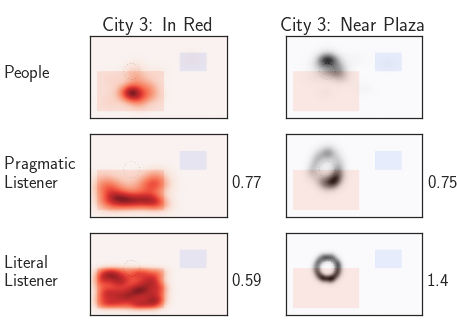
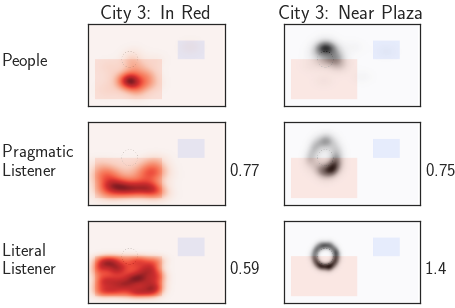
tweaks

diff --git a/spatialImplicature.tex b/spatialImplicature.tex
@@ -37,7 +37,7 @@
 \newcommand{\ndg}[1]{\textcolor{Green}{[ndg: #1]}}
 \newcommand{\tdu}[1]{\textcolor{Red}{[tdu: #1]}}
 
-\title{[Cute title]: The Pragmatics of Spatial Language}
+\title{The Pragmatics of Spatial Language}
  
 %\author{{\large \bf Morton Ann Gernsbacher (MAG@Macc.Wisc.Edu)} \\
 %  Department of Psychology, 1202 W. Johnson Street \\
@@ -61,7 +61,7 @@
 \begin{abstract}
 
 How do people understand the pragmatics of spatial language? 
-We propose a rational-speech act model for spatial reasoning, and apply it to the terms `in' and `near'. We examine people's fine-grain spatial reasoning in this domain by having them locate where an event occurred. Our pragmatic listener model provides a quantitative and qualitative fit to people's inferneces. \textbf{Keywords:}
+We propose a rational-speech act model for spatial reasoning, and apply it to the terms `in' and `near'. We examine people's fine-grain spatial reasoning in this domain by having them locate where an event occurred, given an utterance. Our pragmatic listener model provides a quantitative and qualitative fit to people's inferneces. \textbf{Keywords:}
 Pragmatics, Implicature, Spatial Language
 
 \end{abstract}
@@ -197,14 +197,14 @@ We implement this model in the probabilistic programming language Church \cite{g
 
 \begin{figure*}[!t]
 \center
-\includegraphics[width=.79\textwidth]{figures/In.pdf}
+\includegraphics[width=.7\textwidth]{figures/In.pdf}
 \caption{Experiment results pooled across participants for `In' utterances. Each dot is a participant guess for where a Gold Lily grew, color coded by the region that `In' refers to (e.g. red dots are different responses to ``In the Red Square'').}
 \label{fig:In}
 \end{figure*}
 
 \begin{figure*}[!]
 \center
-\includegraphics[width=.79\textwidth]{figures/Near.pdf}
+\includegraphics[width=.7\textwidth]{figures/Near.pdf}
 \caption{Experiment results pooled across participants for `Near' utterances, details as in Fig. \ref{fig:In}. }
 \label{fig:Near}
 \end{figure*}
@@ -273,7 +273,14 @@ Indeed, the $L_1$ listener shows the same general qualitative patterns discussed
 
 While the pragmatic listener is able to account for the pattern of results found with people, it is interesting to highlight some particular cases where it does not do so well. The left column of Figure \ref{fig:modelProbs} shows one of the two cases where the $KL$ distance between people and the literal listener is shorter than between people and the pragmatic listener.  While the implicature pattern of the pragmatic listener seems generally correct -- it places its probability in the Red Quarter while avoiding the Plaza -- the model is over-avoiding the area near the plaza relative to people. The right column of Figure \ref{fig:modelProbs} shows an example where even though the pragmatic listener is closer to people than the literal listener, it seems generally mistaken in that it places much of its probability distribution within the Red Quarter, which people avoid. 
 
-\begin{figure}[!h]
+\begin{figure}[!tb]
+\center
+\includegraphics[width=0.45\textwidth]{figures/KL.pdf}
+\caption{KL distances between people and the listener models, by question and city. Hatched bars are literal listener $L_0$ and plain bars are  pragmatic listener $L_1$. Bar color indicates region. Lower bars indicate greater agreement with people.}
+\label{fig:KL}
+\end{figure}
+
+\begin{figure}[!tbh]
 \center
 \includegraphics[width=0.5\textwidth]{figures/Figure5.png}
 \caption{Mismatches between pragmatic listener and people, with literal listener for comparison. Details similar to Fig. \ref{fig:modelExamples}.}
@@ -281,32 +288,27 @@ While the pragmatic listener is able to account for the pattern of results found
 \end{figure}
 
 Overall, the results suggest that the pragmatic listener model can account for the quantitative and qualitative pattern of pragmatic spatial inferences of people, within our domain.  
-\vspace{-10pt}
+
 \section{Discussion}
 
-\begin{figure}[!b]
-\center
-\includegraphics[width=0.45\textwidth]{figures/KL.pdf}
-\caption{KL distances between people and the listener models, by question and city. Hatched bars are literal listener $L_0$ and plain bars are  pragmatic listener $L_1$. Bar color indicates region. Lower bars indicate greater agreement with people.}
-\label{fig:KL}
-\end{figure}
+
 
 Space is fine grained, more so than language, leaving a great deal of room for the influence of context and pragmatic enrichment. As a result, spatial language is a promising avenue for testing quantitative models of pragmatic reasoning. We investigated people's fine-grained pragmatic reasoning in a spatial domain, and found support for a model within the rational speech act (RSA) framework.  
 
-The model's lexicon was restricted to ``in'', ``near'' and ``near-edge''. People's spatial language is no doubt far richer. Even within our domain utterances might include `in the middle of the City', `in between the Red and Blue Quarters', `above Victory Plaza', and so on. People might also combine utterances (e.g. `to the left of the Blue Quarter, near the Plaza'). In future work, a parallel production task (in which people see where a flower grew and must convey it using language) should be used to inform and expand the lexicon. 
+The model's lexicon was more restricted than natural spatial language. Even within our domain, utterances might include `in the middle of the City', `in between the Red and Blue Quarters', `above Victory Plaza', `to the left of the Blue Quarter, near the Plaza'.... In future work, a parallel production task (in which people convey a map location using language) should be used to inform and expand the lexicon. 
 
 Many other simple extensions of this paradigm suggest themselves. For instance, when reasoning pragmatically, people take into account the knowledge of their partner \cite{ndg+ast:topics2013}. Within a spatial context, a speaker might adjust the landmarks and utterances they use depending on the listener: `it is next to Jacques' caf\'{e}' for those in the know vs.~`it is next to the Louvre' for out-of-towners. The listener could correspondingly adjust their inferences depending on what they believe the speaker knows.
 
 Within the model, one of the most important directions for exploration is the treatment of \emph{pragmatic slack} in expressions like ``near Victory Plaza.'' We modeled the tolerance of the lexical items as uncertain, allowing the literal listener to infer an appropriate value. Such a literal-slack model allows the slack to adjust in order to increase the probability of a speaker's utterance being true; it neglects other pressures that may be important, such as making the speaker's utterance \emph{informative}. 
-\ndg{for instance?}
+%\ndg{for instance?}
 One possibility is to \emph{lift} the slack variable into the pragmatic listener (as in \citeNP{goodman2014probabilistic}). While this model is straightforward to construct, future work is needed to find cases which distinguish it from the model used here.
 
 \subsubsection{Acknowledgments}
-
+\small
 This work was supported by ONR grant N00014-13-1-0788 and a James S. McDonnell Foundation Scholar Award to NDG and the Center for Brains, Minds and Machines (CBMM), NSF STC award CCF-1231216. 
 
 %%%%%%%%
-\vspace{-8pt}
+%\vspace{-8pt}
 \bibliographystyle{apacite}
 \setlength{\bibleftmargin}{.125in}
 \setlength{\bibindent}{-\bibleftmargin}
